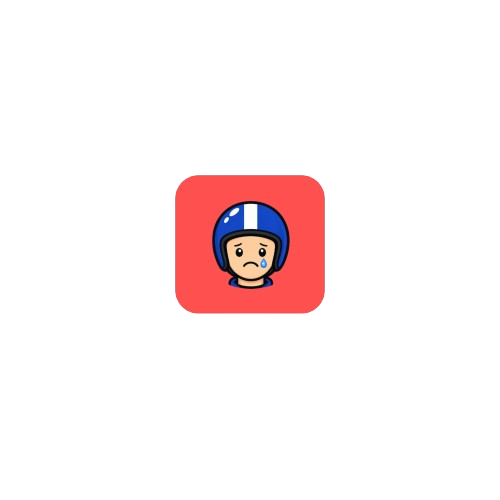
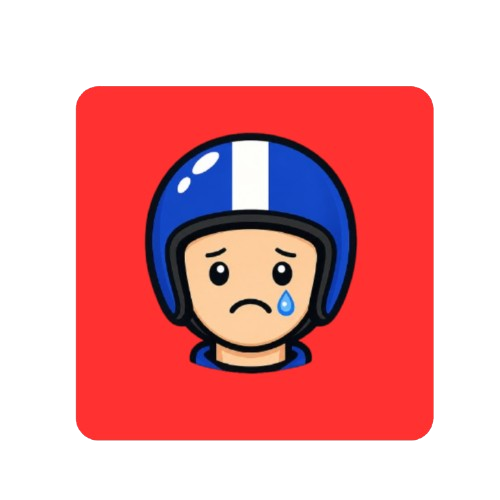
ganti img img

diff --git a/Customer/src/app/beranda/home/home.page.ts b/Customer/src/app/beranda/home/home.page.ts
@@ -84,7 +84,7 @@ export class HomePage implements OnInit {
   educations: any[] = [
     {
       id: 1,
-      image: 'assets/edukasi_keamanan.png',
+      image: 'assets/Pastikan driver sesuai aplikasi(2).png',
       title: 'Aman & Nyaman Bersama Fivgo',
       titleEn: 'Safe & Comfortable with Fivgo',
       desc: 'Keamanan Anda adalah prioritas utama kami. Fivgo berkomitmen menjaga Anda tetap aman di jalan.',
@@ -98,6 +98,42 @@ export class HomePage implements OnInit {
         'Verify the license plate and driver name with the app details before getting on.',
         'Use the "Share Trip" feature to share your live location with your family.',
         'In case of suspicious situations, immediately press the emergency button in the app to call for help.'
+      ]
+    },
+    {
+      id: 2,
+      image: 'assets/Jaga kerahasiaan kode OTP.png',
+      title: 'Jaga Kerahasiaan Kode OTP',
+      titleEn: 'Keep OTP Code Confidential',
+      desc: 'Jangan pernah membagikan kode OTP (One-Time Password) Anda kepada siapa pun, termasuk pihak yang mengaku dari Fivgo.',
+      descEn: 'Never share your OTP (One-Time Password) with anyone, including those claiming to be from Fivgo.',
+      tips: [
+        'OTP adalah kunci rahasia untuk masuk ke akun Anda.',
+        'Fivgo tidak pernah meminta kode OTP untuk alasan apa pun.',
+        'Laporkan segera jika ada aktivitas mencurigakan pada akun Anda.'
+      ],
+      tipsEn: [
+        'OTP is the secret key to log into your account.',
+        'Fivgo never asks for your OTP code for any reason.',
+        'Report immediately if there is suspicious activity on your account.'
+      ]
+    },
+    {
+      id: 3,
+      image: 'assets/aktifkan lokasi.png',
+      title: 'Aktifkan Lokasi Akurat',
+      titleEn: 'Enable Accurate Location',
+      desc: 'Aktifkan GPS/Lokasi Anda untuk membantu driver menemukan posisi penjemputan dengan lebih tepat dan cepat.',
+      descEn: 'Enable your GPS/Location to help drivers find your pickup location more accurately and quickly.',
+      tips: [
+        'Pastikan izin lokasi untuk aplikasi Fivgo sudah diaktifkan di pengaturan ponsel.',
+        'Gunakan titik jemput yang sesuai dengan keberadaan Anda.',
+        'Lokasi yang akurat meminimalkan waktu tunggu Anda di jalan.'
+      ],
+      tipsEn: [
+        'Ensure location permission for Fivgo is enabled in your phone settings.',
+        'Use the pickup point that matches your actual location.',
+        'Accurate location minimizes your waiting time on the road.'
       ]
     }
   ];

diff --git a/Customer/src/app/beranda/home/home.page.html b/Customer/src/app/beranda/home/home.page.html
@@ -34,8 +34,10 @@
 
     <!-- Edukasi & keamanan -->
     <h3 class="section-title">{{ t('home.education') }}</h3>
-    <div class="grey-card box-large" (click)="openEducation(educations[0])" style="cursor: pointer; margin-bottom: 30px;">
-      <img [src]="educations[0].image" alt="Foto Edukasi" />
+    <div class="scroll-container" style="margin-bottom: 30px;">
+      <div class="grey-card box-medium" *ngFor="let edu of educations" (click)="openEducation(edu)" style="cursor: pointer;">
+        <img [src]="edu.image" [alt]="edu.title" />
+      </div>
     </div>
 
     <!-- promosi -->

diff --git a/Customer/src/app/beranda/payment/payment.page.html b/Customer/src/app/beranda/payment/payment.page.html
@@ -4,7 +4,7 @@
   </ion-toolbar>
 </ion-header>
 
-<ion-content class="bg-grey" [scrollY]="true">
+<ion-content [fullscreen]="true" class="bg-grey" [scrollY]="true">
 
   <!-- Spinner saat loading awal -->
   <div class="initial-spinner-container" *ngIf="isLoading && transactions.length === 0">

diff --git a/Customer/src/app/beranda/chat/chat.page.html b/Customer/src/app/beranda/chat/chat.page.html
@@ -33,7 +33,7 @@
   </div>
 </ion-header>
 
-<ion-content class="bg-light">
+<ion-content [fullscreen]="true" class="bg-light">
 
   <!-- ===== MODE CHAT AKTIF ===== -->
   <ng-container *ngIf="orderId">

diff --git a/Customer/src/app/profile/metode-pembayaran/metode-pembayaran.page.html b/Customer/src/app/profile/metode-pembayaran/metode-pembayaran.page.html
@@ -9,7 +9,7 @@
   </ion-toolbar>
 </ion-header>
 
-<ion-content class="bg-grey">
+<ion-content [fullscreen]="true" class="bg-grey">
 
   <!-- Banner Info -->
   <div class="info-banner">
